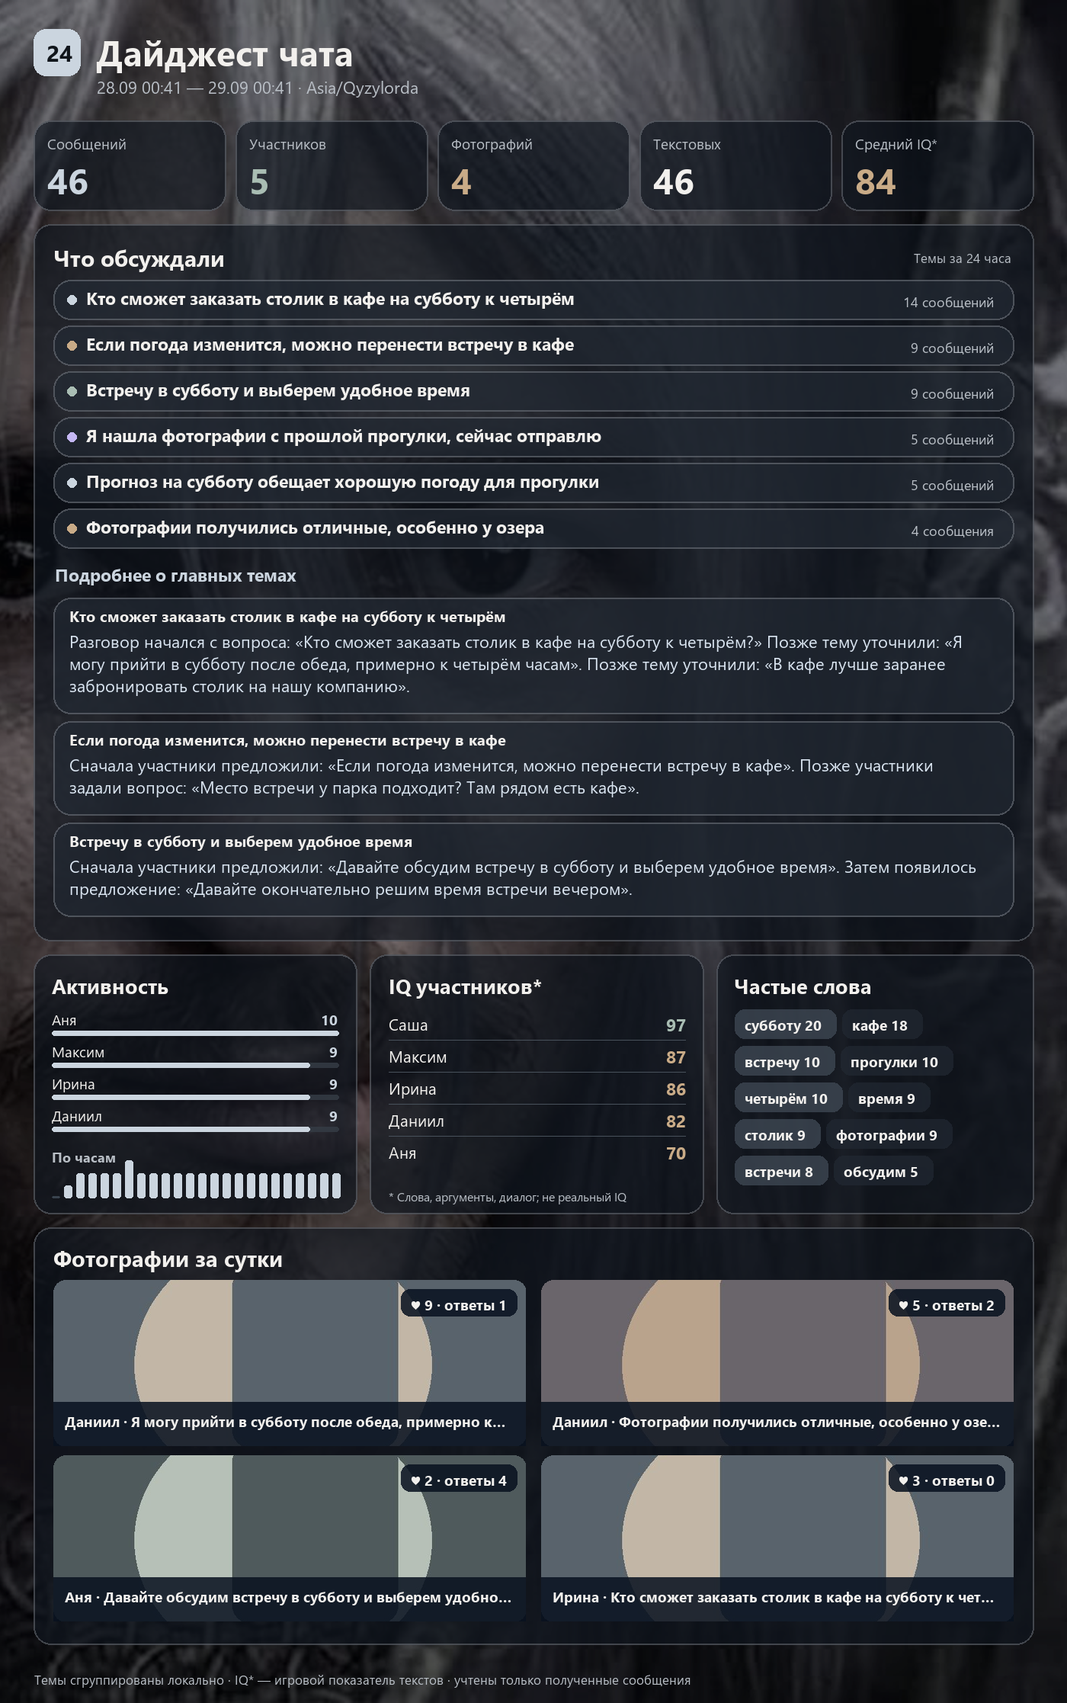
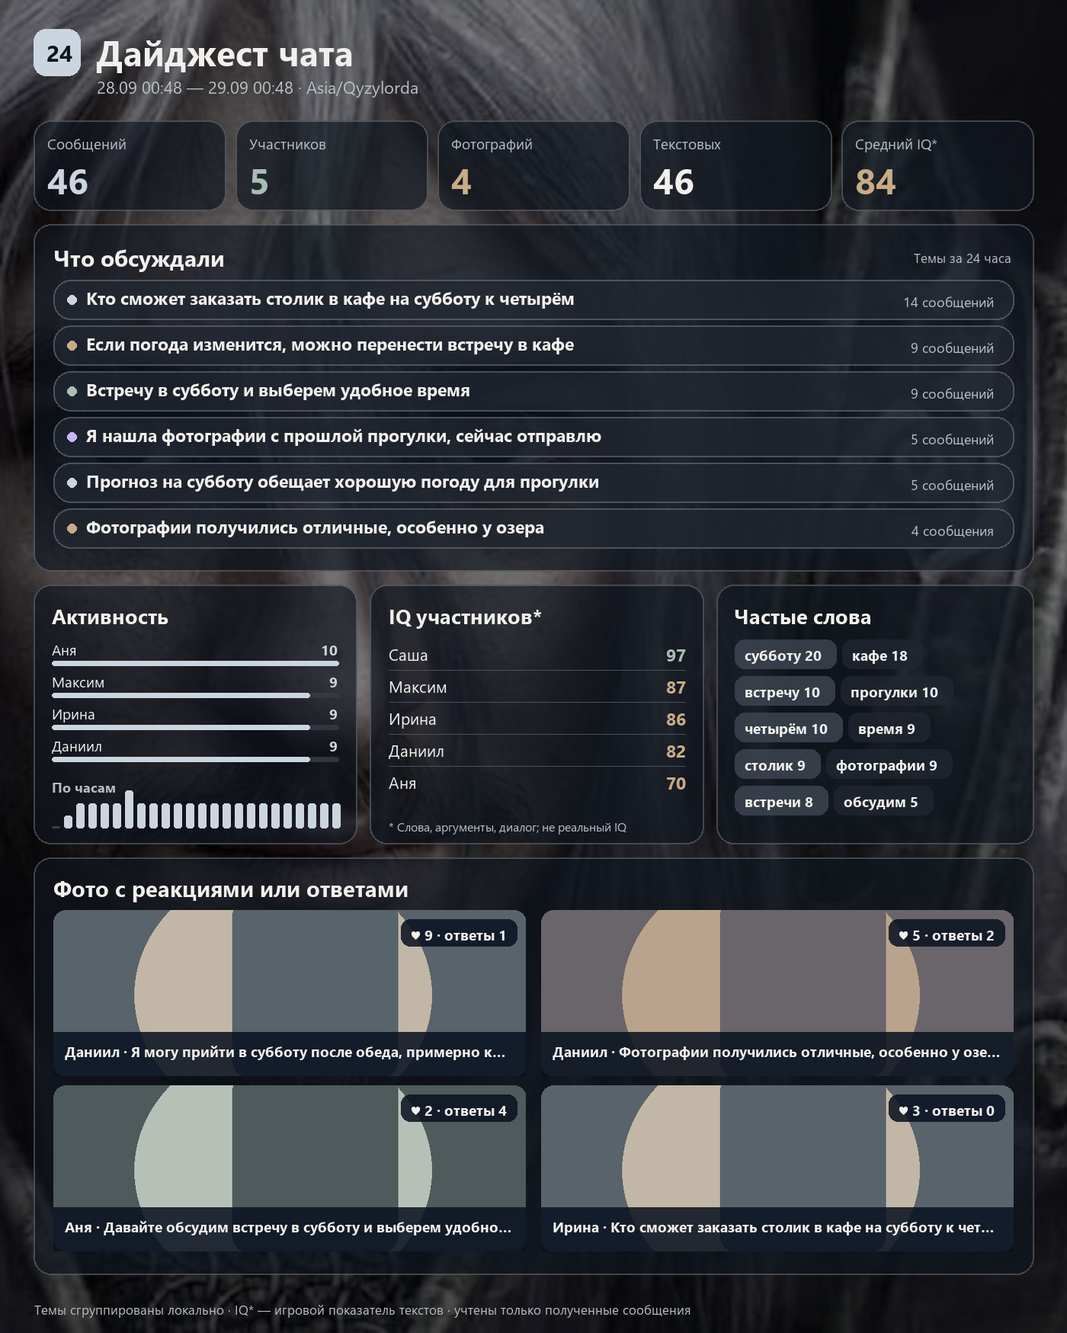
Add files via upload

diff --git a/analytics.py b/analytics.py
@@ -39,8 +39,6 @@ REASON_MARKERS = (
     "например", "к примеру", "допустим", "то есть", "если", "значит",
     "во-первых", "во-вторых", "иначе", "из-за", "ведь",
 )
-PROPOSAL_RE = re.compile(r"\b(?:предлагаю|давайте|можно|нужно|стоит|мб|может|попробуем)\b")
-AGREEMENT_RE = re.compile(r"^\s*(?:да[,! ]|согласен\b|согласна\b|поддерживаю\b|точно\b)")
 TOPIC_PREFIX_RE = re.compile(
     r"^(?:(?:ну|короче|кстати|слушайте|ребята|друзья|согласна|согласен|"
     r"да|ага|точно|окей|мне кажется|я думаю|я считаю|думаю|хочу обсудить|"
@@ -76,7 +74,7 @@ def message_count_label(count: int) -> str:
     return f"{count} {ending}"
 
 
-def topic_title(items: list[dict[str, Any]]) -> str:
+def topic_title(items: list[dict[str, Any]]) -> tuple[str, int | None]:
     """Choose a readable source-grounded heading instead of a list of keywords."""
     frequencies = Counter(stem(word) for item in items for word in tokens(item.get("text") or ""))
     candidates = []
@@ -92,45 +90,11 @@ def topic_title(items: list[dict[str, Any]]) -> str:
         terms = {stem(word) for word in tokens(title)}
         relevance = sum(frequencies[word] for word in terms)
         length_bonus = 3 if 20 <= len(title) <= 75 else 0
-        candidates.append((relevance + length_bonus, -index, title))
+        candidates.append((relevance + length_bonus, -index, title, item.get("message_id")))
     if not candidates:
-        return "Обсуждение"
-    title = max(candidates)[2]
-    return title[0].upper() + title[1:]
-
-
-def describe_topic(title: str, items: list[dict[str, Any]], other: bool = False) -> str:
-    """Build a structured, source-grounded narrative without an external model."""
-    chosen: list[dict[str, Any]] = [items[0]]
-    if len(items) > 2:
-        middle = next((item for item in items[1:-1]
-                       if PROPOSAL_RE.search((item.get("text") or "").casefold())), None)
-        if middle is None:
-            middle = max(items[1:-1], key=lambda item: len(tokens(item.get("text") or "")))
-        chosen.append(middle)
-    if len(items) > 1:
-        chosen.append(items[-1])
-
-    sentences = ["Помимо главных тем, участники затронули и другие вопросы."] if other else []
-    for index, item in enumerate(chosen):
-        body = clip(item.get("text") or "", 150).strip().rstrip(".")
-        if not body:
-            continue
-        if index == 0:
-            opening = "Разговор начался с вопроса" if "?" in body else (
-                "Сначала участники предложили" if PROPOSAL_RE.search(body.casefold()) else
-                "Разговор начался с мысли")
-        elif "?" in (item.get("text") or ""):
-            opening = "Позже участники задали вопрос"
-        elif AGREEMENT_RE.search(body.casefold()):
-            opening = "Идею поддержали и развили"
-        elif PROPOSAL_RE.search(body.casefold()):
-            opening = "Затем появилось предложение"
-        else:
-            opening = "Позже тему уточнили"
-        suffix = "" if body.endswith(("?", "!", "…")) else "."
-        sentences.append(f"{opening}: «{body}»{suffix}")
-    return clip(" ".join(sentences), 620)
+        return "Обсуждение", items[0].get("message_id") if items else None
+    _, _, title, message_id = max(candidates)
+    return title[0].upper() + title[1:], message_id
 
 
 def build_topics(text_messages: list[dict[str, Any]]) -> list[dict[str, Any]]:
@@ -172,22 +136,11 @@ def build_topics(text_messages: list[dict[str, Any]]) -> list[dict[str, Any]]:
     for cluster in clusters:
         items = cluster["items"]
         if cluster.get("other"):
-            title = "Другие темы"
+            title, anchor_id = "Другие темы", items[0].get("message_id")
         else:
-            title = topic_title(items)
-        chosen = []
-        seen_texts = set()
-        for item in sorted(items, key=lambda m: m["date"]):
-            body = " ".join((item.get("text") or "").split()).casefold()
-            if body not in seen_texts:
-                chosen.append(item)
-                seen_texts.add(body)
-        if len(chosen) > 4:
-            chosen = [chosen[0], *chosen[-3:]]
-        source_items = chosen if len(chosen) <= 3 else [chosen[0], chosen[2], chosen[-1]]
-        topics.append({"title": title, "summary": describe_topic(title, chosen, cluster.get("other", False)),
-                       "count": len(items),
-                       "message_ids": [item["message_id"] for item in source_items if item.get("message_id")]})
+            title, anchor_id = topic_title(items)
+        topics.append({"title": title, "count": len(items),
+                       "message_ids": [anchor_id] if anchor_id else []})
     return topics
 
 
@@ -281,7 +234,8 @@ def analyze(messages: list[dict[str, Any]], now: int, tz_name: str = "UTC") -> d
         "participant_scores": scores,
         "average_score": round(mean(item["score"] for item in scores)) if scores else None,
         "photos": sorted(
-            photos,
+            (item for item in photos
+             if int(item.get("reaction_count") or 0) + int(item.get("reply_count") or 0) > 0),
             key=lambda item: (int(item.get("reaction_count") or 0) + int(item.get("reply_count") or 0),
                               int(item.get("reaction_count") or 0), item["date"], item["message_id"]),
             reverse=True,

diff --git a/tests/test_dashboard.py b/tests/test_dashboard.py
@@ -27,6 +27,7 @@ class DashboardTests(unittest.TestCase):
         self.assertEqual(stats["messages"], 2)
         self.assertEqual(stats["participants"], 2)
         self.assertEqual(stats["photo_count"], 1)
+        self.assertEqual(stats["photos"], [])
         self.assertEqual(stats["authors"][0]["name"], "Аня")
         self.assertIn(("встреча", 2), stats["words"])
         self.assertEqual(sum(stats["hourly"]), 2)
@@ -170,7 +171,8 @@ class DashboardTests(unittest.TestCase):
             handle_update({"message_reaction_count": totals}, None, store, "OurBot", "UTC")
             handle_update({"message_reaction_count": totals}, None, store, "OurBot", "UTC")
             stats = analyze(store.recent(chat["id"], now), now)
-            self.assertEqual([photo["message_id"] for photo in stats["photos"]], [2, 1, 3])
+            self.assertEqual([photo["message_id"] for photo in stats["photos"]], [2, 1])
+            self.assertEqual(stats["photo_count"], 3)
             self.assertEqual((stats["photos"][0]["reaction_count"],
                               stats["photos"][0]["reply_count"]), (2, 2))
             self.assertEqual(stats["photos"][1]["reaction_count"], 3)
@@ -183,14 +185,16 @@ class DashboardTests(unittest.TestCase):
 
     def test_text_report_links_and_html_escaping(self):
         stats = {"start": "01.01 09:00", "end": "02.01 09:00", "messages": 2,
-                 "topics": [{"title": "Планы <завтра>", "summary": "Аня сказала: A&B < C",
-                             "count": 2, "message_ids": [12, 13]}], "photos": []}
+                 "topics": [{"title": "Планы <завтра> & дальше", "summary": "НЕ ПОКАЗЫВАТЬ",
+                             "count": 1, "message_ids": [12]},
+                            {"title": "Другая тема", "summary": "НЕ ПОКАЗЫВАТЬ",
+                             "count": 1, "message_ids": [13]}], "photos": []}
         public = format_text_report(stats, -100123, "mygroup")
         self.assertIn('href="https://t.me/mygroup/12"', public)
         self.assertIn('href="https://t.me/mygroup/13"', public)
-        self.assertIn("Планы &lt;завтра&gt;", public)
-        self.assertIn("A&amp;B &lt; C", public)
-        self.assertNotIn("A&B < C", public)
+        self.assertIn("Планы &lt;завтра&gt; &amp; дальше", public)
+        self.assertNotIn("НЕ ПОКАЗЫВАТЬ", public)
+        self.assertNotIn("Подробнее о главных темах", public)
         private = format_text_report(stats, -100123, None)
         self.assertIn('href="https://t.me/c/123/12"', private)
         basic = format_text_report(stats, -123, None)
@@ -207,16 +211,13 @@ class DashboardTests(unittest.TestCase):
         ]
         messages = [
             {"date": now - (len(texts) - i) * 300, "sender_id": sender_id,
-             "sender_name": name, "text": body, "message_id": i,
+             "sender_name": name, "text": body, "message_id": i + 1,
              "photo_file_id": None}
             for i, (sender_id, name, body) in enumerate(texts)
         ]
         stats = analyze(messages, now)
         self.assertEqual(len(stats["topics"]), 2)
-        self.assertTrue(any("Бот сделает" in item["summary"] and "Бот добавляет" in item["summary"]
-                            for item in stats["topics"]))
-        self.assertTrue(all("«" in item["summary"] and "»" in item["summary"]
-                            for item in stats["topics"]))
+        self.assertTrue(all(item["title"] and item["message_ids"] for item in stats["topics"]))
         self.assertEqual(len(stats["participant_scores"]), 2)
         self.assertIsNotNone(stats["average_score"])
 

diff --git a/render.py b/render.py
@@ -134,13 +134,8 @@ def render_dashboard(stats: dict[str, Any], photo_bytes: list[bytes | None] | No
     for item in topics:
         lines = wrap_lines(measure, item["title"], font(23, True), 960, 2)
         topic_rows.append((item, lines, max(52, 18 + len(lines) * 30)))
-    detail_rows = []
-    for item in topics[:3]:
-        lines = wrap_lines(measure, item["summary"], font(22), 1190, 5)
-        detail_rows.append((item, lines, max(106, 65 + len(lines) * 29)))
     list_height = sum(row[2] + 8 for row in topic_rows)
-    detail_height = (57 + sum(row[2] + 10 for row in detail_rows)) if detail_rows else 0
-    topic_height = 75 + list_height + detail_height + 20
+    topic_height = 75 + list_height + 20
     if not topic_rows:
         topic_height = 185
     topic_y = 294
@@ -192,15 +187,6 @@ def render_dashboard(stats: dict[str, Any], photo_bytes: list[bytes | None] | No
             draw.text((1304 - text_width(draw, count_label, font(18)), y + 16),
                       count_label, font=font(18), fill=MUTED)
             y += row_height + 8
-        draw.text((72, y + 11), "Подробнее о главных темах", font=font(23, True), fill=CYAN)
-        y += 57
-        for index, (item, lines, row_height) in enumerate(detail_rows):
-            card(draw, (70, y, 1330, y + row_height), CARD_ALT)
-            draw.text((91, y + 10), fit_text(draw, item["title"], font(20, True), 1180),
-                      font=font(20, True), fill=WHITE)
-            for line_index, line in enumerate(lines):
-                draw.text((91, y + 42 + line_index * 29), line, font=font(22), fill="#D9E4F0")
-            y += row_height + 10
 
     boxes = [(44, 468), (485, 923), (940, 1356)]
     for x1, x2 in boxes:
@@ -270,7 +256,7 @@ def render_dashboard(stats: dict[str, Any], photo_bytes: list[bytes | None] | No
 
     if photos:
         card(draw, (44, photo_y, 1356, photo_y + photo_height))
-        draw.text((70, photo_y + 20), "Фотографии за сутки", font=font(29, True), fill=WHITE)
+        draw.text((70, photo_y + 20), "Фото с реакциями или ответами", font=font(29, True), fill=WHITE)
         for i, info in enumerate(photos):
             column, row = i % photo_cols, i // photo_cols
             row_count = min(photo_cols, len(photos) - row * photo_cols)

diff --git a/bot.py b/bot.py
@@ -342,23 +342,13 @@ def format_text_report(stats: dict[str, Any], chat_id: int,
         heading = f'<a href="{link}"><b>{title}</b></a>' if link else f"<b>{title}</b>"
         lines.append(f"{index}. {heading} ({message_count_label(topic['count'])})")
     if stats["topics"]:
-        lines.extend(["", "<b>Подробнее о главных темах</b>"])
-    for topic in stats["topics"][:3]:
-        ids = topic.get("message_ids", [])[:3]
-        lines.append(f"<b>{escape(topic['title'])}</b>")
-        lines.append(escape(topic["summary"]))
-        source_links = [f'<a href="{url}">↗ реплика {number}</a>'
-                        for number, message_id in enumerate(ids, 1)
-                        if (url := message_link(chat_id, username, message_id))]
-        if source_links:
-            lines.append(" · ".join(source_links))
         lines.append("")
     photo_links = [f'<a href="{url}">фото {number}</a>'
                    f" (♥ {photo.get('reaction_count', 0)}, ответов {photo.get('reply_count', 0)})"
                    for number, photo in enumerate(stats["photos"][:3], 1)
                    if (url := message_link(chat_id, username, photo["message_id"]))]
     if photo_links:
-        lines.append("📷 " + " · ".join(photo_links))
+        lines.append("<b>📷 Фото с откликом:</b> " + " · ".join(photo_links))
     authors = stats.get("authors", [])[:3]
     if authors:
         lines.append("<b>Активные:</b> " + ", ".join(

diff --git a/README.md b/README.md
@@ -2,18 +2,18 @@
 
 Бот собирает новые сообщения группы. Он сам отправляет сводку каждый день в 09:00 по заданному часовому поясу, а команда `/dashboard` позволяет запросить её в любой момент. Каждый отчёт состоит из картинки и отдельного текстового сообщения с темами:
 
-- что обсуждали: похожие сообщения объединяются в темы, в каждой показывается связное описание с опорой на реальные реплики;
+- что обсуждали: похожие сообщения объединяются в темы, каждая показана одной строкой с числом сообщений;
 - сколько сообщений и фотографий было;
 - кто писал чаще всего и когда чат был активен;
 - условный «IQ» каждого активного участника и среднее по участникам;
 - какие слова встречались чаще всего;
 - до шести фотографий, набравших больше всего реакций и ответов на них, с подписями и счётчиками.
 
-На картинке и в тексте сначала идёт список тем с числом сообщений по каждой, как в дайджесте чата. Затем показаны более подробные описания трёх главных тем. Названия берутся из наиболее характерных реплик и очищаются от разговорных вступлений; без ИИ это остаётся приближённым названием, а не точной смысловой классификацией. В текстовой сводке название каждой темы открывает исходное сообщение. Под описанием есть ссылки на несколько реплик, а также на последние фотографии. В публичных группах используются ссылки `t.me/имя_группы/номер`, в закрытых супергруппах — `t.me/c/…`; закрытые ссылки откроются только у участников группы. В обычной группе ссылки Telegram на отдельные сообщения недоступны: после преобразования в супергруппу они появятся в новых отчётах.
+На картинке и в тексте идёт компактный список тем с числом сообщений по каждой, как в дайджесте чата. Названия берутся из наиболее характерных реплик и очищаются от разговорных вступлений; без ИИ это остаётся приближённым названием, а не точной смысловой классификацией. В текстовой сводке название каждой темы открывает исходное сообщение. Ниже есть ссылки на фотографии с реакциями или ответами. В публичных группах используются ссылки `t.me/имя_группы/номер`, в закрытых супергруппах — `t.me/c/…`; закрытые ссылки откроются только у участников группы. В обычной группе ссылки Telegram на отдельные сообщения недоступны: после преобразования в супергруппу они появятся в новых отчётах.
 
 Оформление использует приложенный портрет `assets/silver_guardian.jpg`: серебряные акценты и полупрозрачные тёмные карточки поверх изображения. Фон самого отчёта содержит портрет, а карточки просвечивают. Если файл изображения отсутствует, бот использует однотонный тёмный фон.
 
-Темы определяются локально по совпадающим словам. Описания строятся по литературным шаблонам из реплик участников, без ИИ, внешних сервисов и оплаты. Бот не придумывает выводы, которых не было в переписке. Пустой блок фотографий не выводится.
+Темы определяются локально по совпадающим словам, без ИИ, внешних сервисов и оплаты. Пустой блок фотографий не выводится. Фото без реакций и ответов не показываются.
 
 Популярность фото считается как сумма реакций и прямых ответов на его сообщение за сутки. При равенстве выше ставится фото с большим числом реакций, затем более новое. Чтобы получать события о реакциях, бот должен быть **администратором группы**; иначе фотографии сортируются по доступным ответам, а при их равенстве — по времени. Telegram сообщает боту только о новых событиях после настройки, поэтому старые реакции задним числом не появятся.
 
